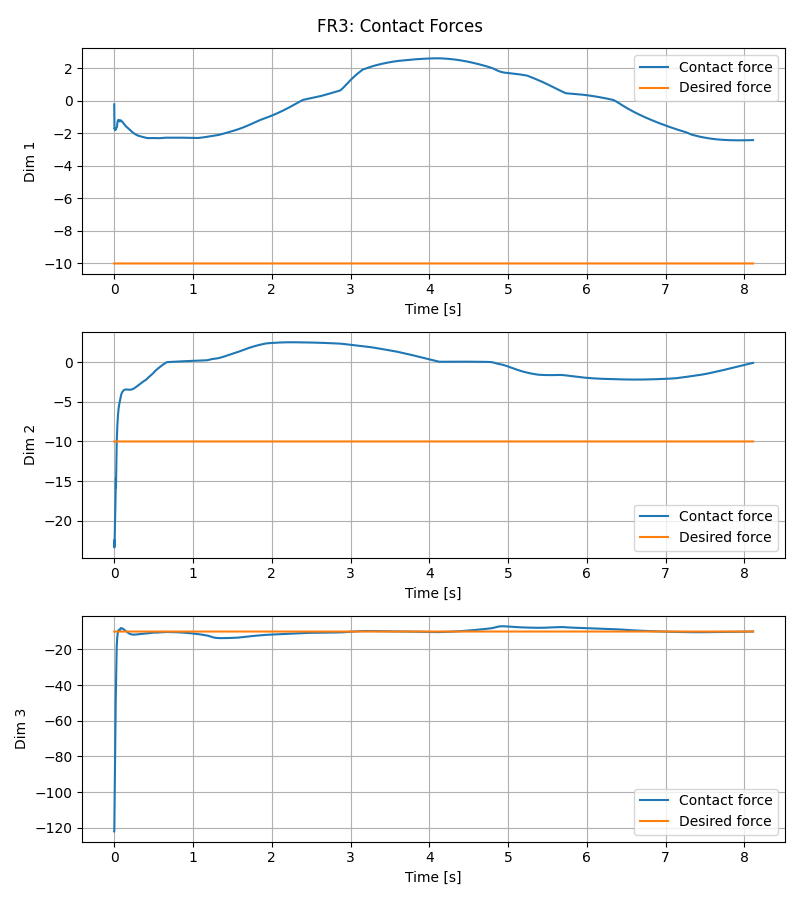
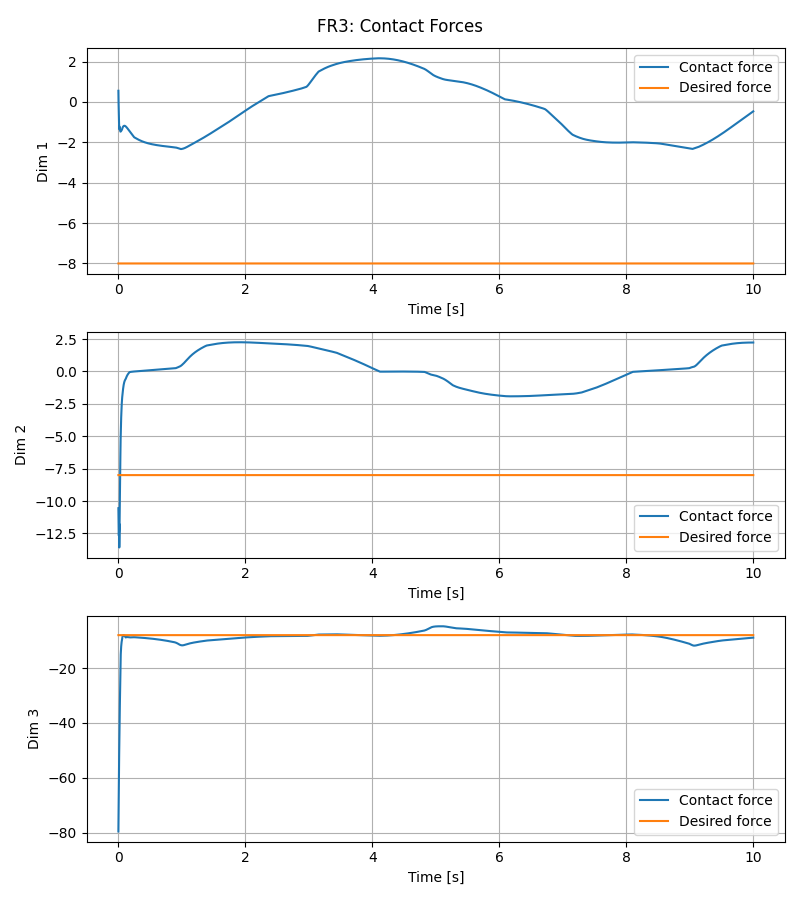
mujoco exp circle drawing

diff --git a/run_hybrid_control_mujoco.py b/run_hybrid_control_mujoco.py
@@ -60,13 +60,11 @@ def main() -> None:
     # 2. Create Configurations
     # ============================================================
     common_config = ControllerConfig(
-        circle_duration=args.circle_duration,
-        circle_center=np.array([0.4871, 0.0, 0.034]))
-    common_config.size_z = 0.01
+        circle_duration=args.circle_duration)
     common_config.gravity_compensation = True
     hybrid_config = HybridControllerConfig()
     # q0 = np.array([-3.9000e-03, 7.0400e-01, -9.0000e-04, -2.1658e+00, -2.9000e-03, 2.7854e+00, -7.8220e-01])
-    q0 = np.array([0.0225, 0.7064, -0.0243, -2.3135, -0.0095, 3.0422, -0.2441])
+    q0 = np.array([0.1807, 0.6659, -0.1337, -2.1748, 0.1788, 2.8604, 0.6684])
 
     
 
@@ -169,7 +167,8 @@ def main() -> None:
                     tau = hybrid_controller.update(sim_time, robot_state)
 
                     # Check if finished
-                    if hybrid_controller.is_target_reached(robot_state):
+                    # if hybrid_controller.is_target_reached(robot_state):
+                    if hybrid_controller.is_finished():
                         print("\n" + "=" * 60)
                         print(f"HYBRID CONTROL FINISHED at t={sim_time:.2f}s!")
                         print("=" * 60)

diff --git a/src/robot_configs.py b/src/robot_configs.py
@@ -23,7 +23,7 @@ class RobotConfig:
 # FR3 Robot Configuration
 FR3_CONFIG = RobotConfig(
     name="fr3",
-    pinocchio_xml_path="franka_fr3/fr3_no_joint_friction.xml",
+    pinocchio_xml_path="franka_fr3/fr3.xml",
     mujoco_scene_xml_path="franka_fr3/scene.xml",
     joint_names=[
         'fr3_joint1', 'fr3_joint2', 'fr3_joint3', 'fr3_joint4', 
